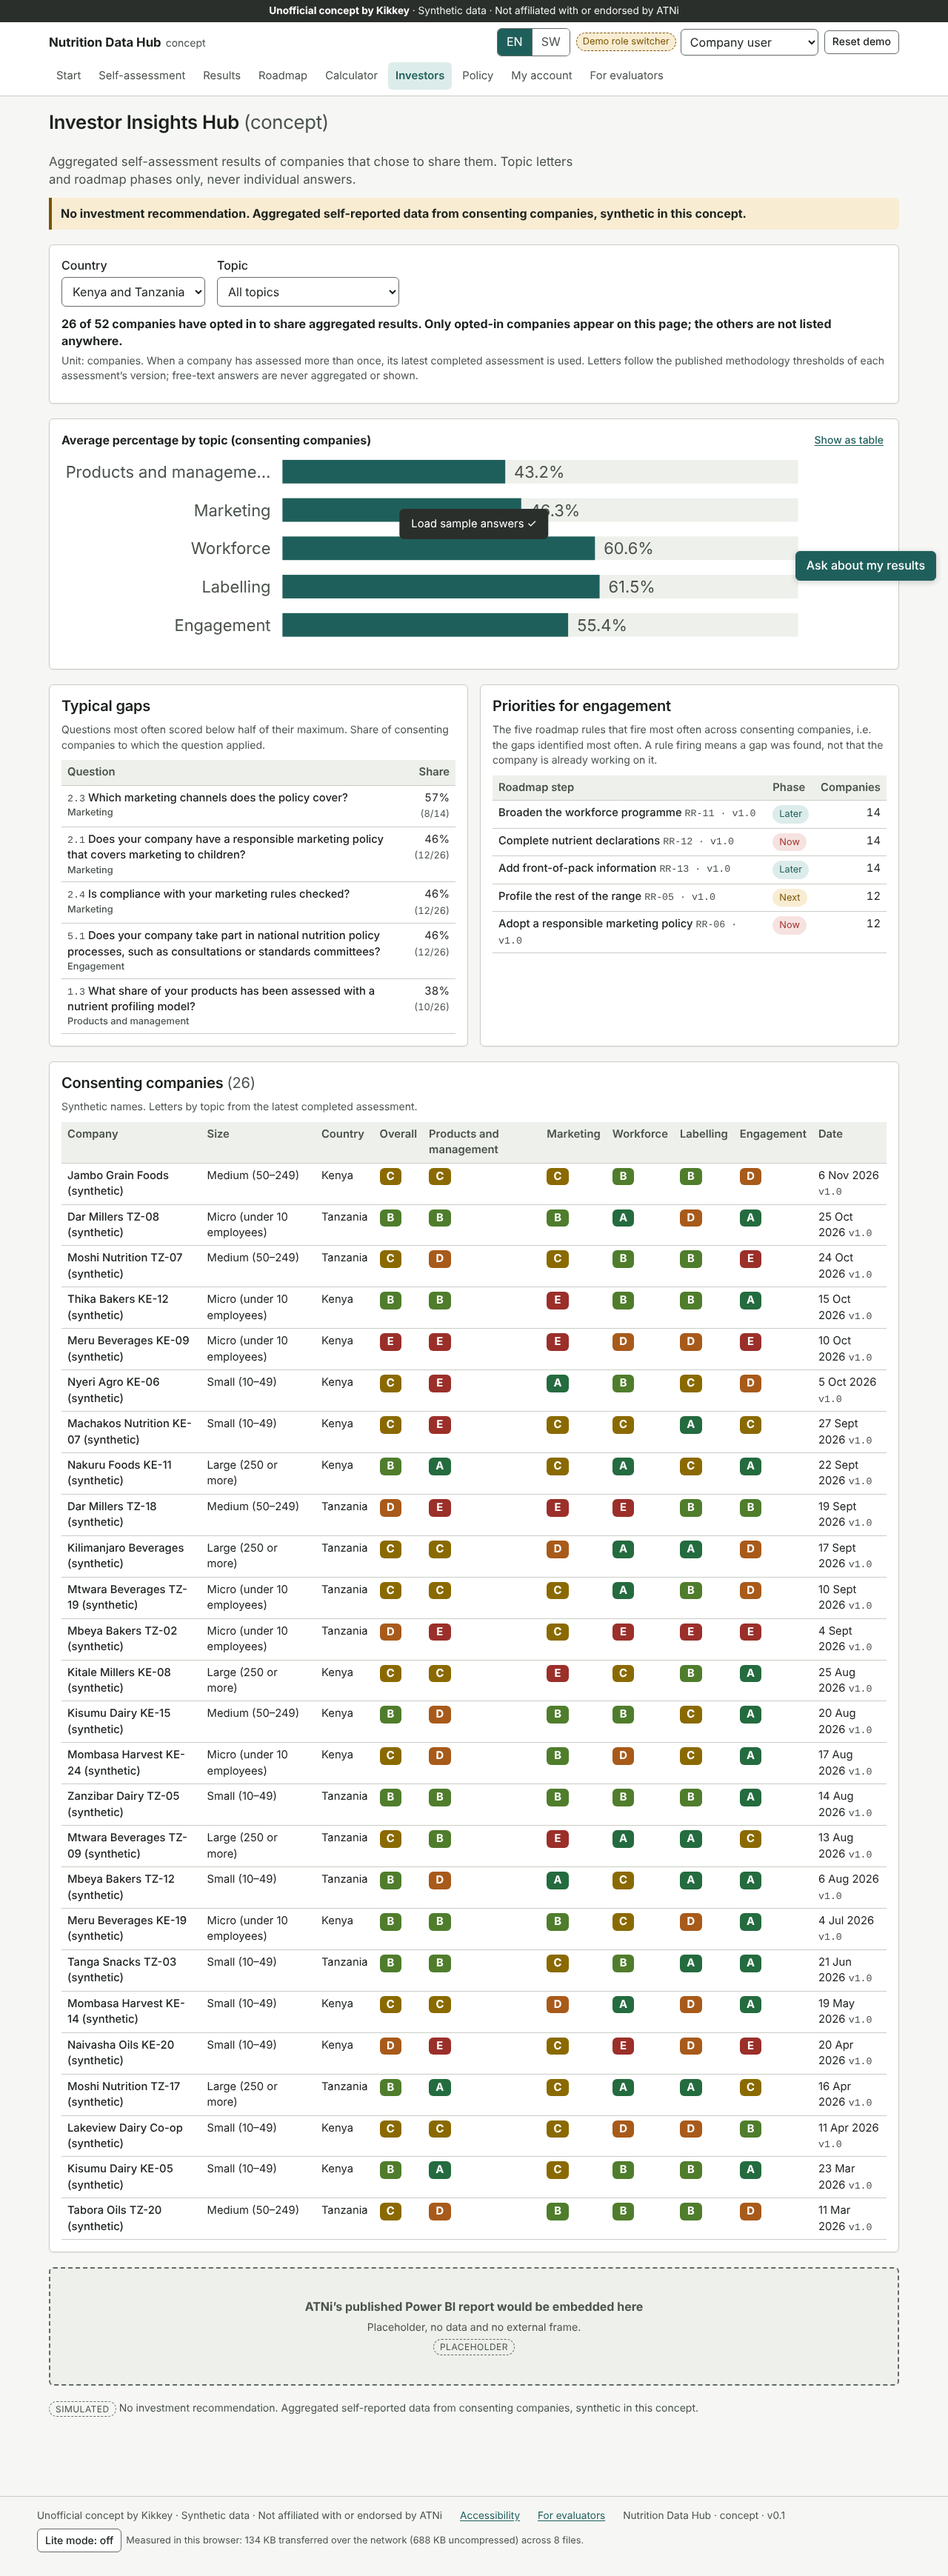
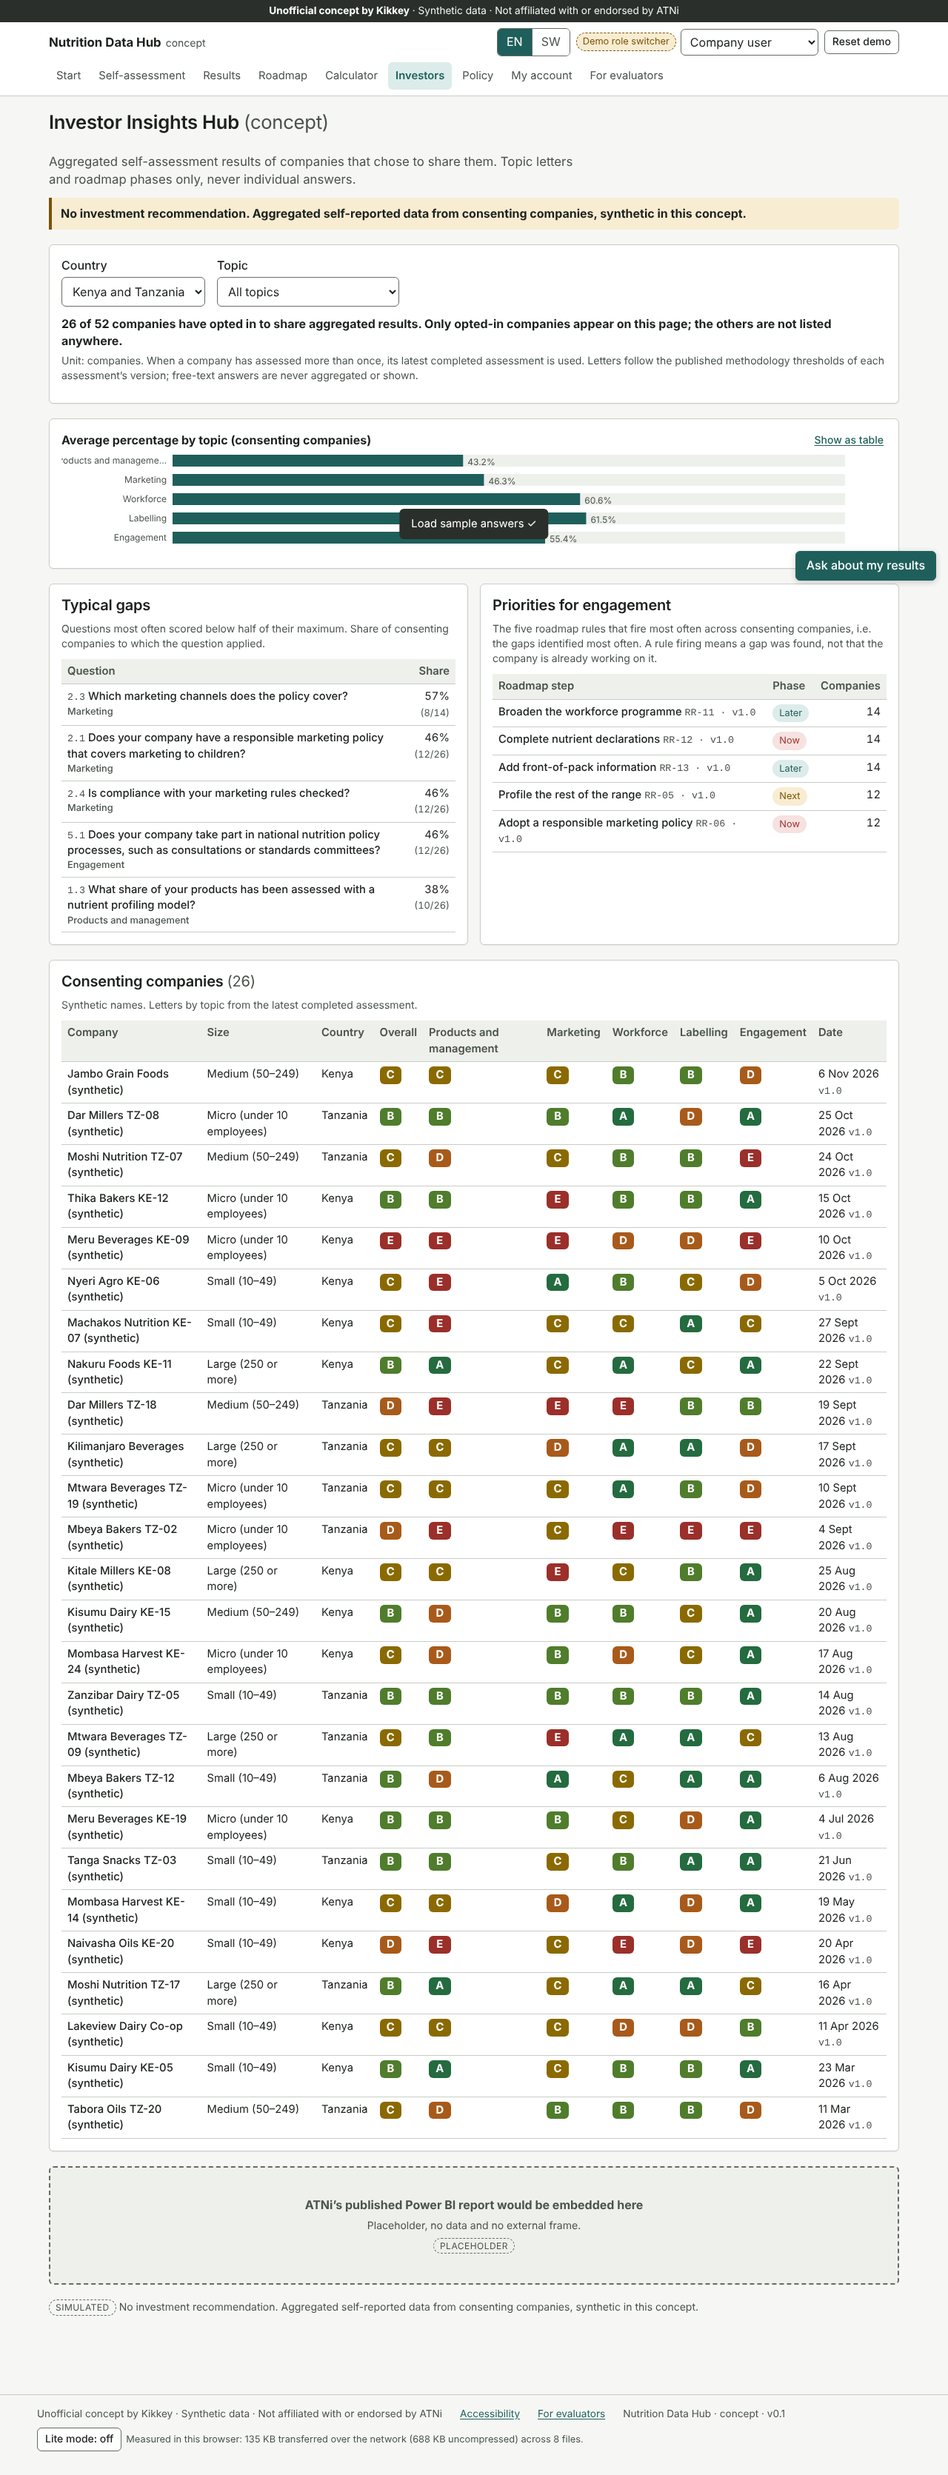
Responsive bar charts drawn in real pixels; country-scoped impact and publish base; country-suffixed draft ids; wording and caption fixes
Claude-Session: https://claude.ai/code/session_01NYA1gefhy3ojjTjKxGLX9t

diff --git a/src/components/BarChart.tsx b/src/components/BarChart.tsx
@@ -1,4 +1,4 @@
-import { useId, useState } from 'react';
+import { useEffect, useId, useRef, useState } from 'react';
 import { useT } from '../i18n/index.tsx';
 import { useStore } from '../store/index.tsx';
 
@@ -19,10 +19,28 @@ export function BarChart({ title, bars, unit = '%', max = 100, caption }: { titl
   const { state } = useStore();
   const [table, setTable] = useState(false);
   const id = useId();
-  const rowH = 26;
-  const labelW = 150;
-  const w = 560;
+  // the SVG is drawn in CSS pixels of the measured container, so text never scales down on phones
+  const wrapRef = useRef<HTMLDivElement>(null);
+  const [measured, setMeasured] = useState(560);
+  useEffect(() => {
+    const el = wrapRef.current;
+    if (!el) return;
+    const apply = () => setMeasured(Math.max(240, Math.round(el.getBoundingClientRect().width || 560)));
+    apply();
+    if (typeof ResizeObserver === 'undefined') return;
+    const ro = new ResizeObserver(apply);
+    ro.observe(el);
+    return () => ro.disconnect();
+  }, []);
+  const narrow = measured < 520;
+  const w = measured;
+  const rowH = narrow ? 44 : 26;
+  const labelW = narrow ? 0 : 150;
+  const valueW = 56;
+  const barY = narrow ? 24 : 3;
+  const barH = narrow ? 12 : rowH - 10;
   const h = bars.length * rowH + 8;
+  const maxLabel = narrow ? 48 : 22;
   const showTable = table || state.settings.lite;
   return (
     <figure style={{ margin: 0 }}>
@@ -34,22 +52,26 @@ export function BarChart({ title, bars, unit = '%', max = 100, caption }: { titl
           </button>
         )}
       </figcaption>
-      {!showTable && (
-        <svg className="bar-chart" viewBox={`0 0 ${w} ${h}`} width="100%" role="img" aria-label={`${title}. ${bars.map((b) => `${b.label}: ${b.value}${unit}`).join('. ')}`}>
-          {bars.map((b, i) => {
-            const bw = Math.max(0, Math.min(1, b.value / (b.max ?? max))) * (w - labelW - 60);
-            const y = i * rowH + 4;
-            return (
-              <g key={b.label}>
-                <text x={labelW - 8} y={y + 15} textAnchor="end">{b.label.length > 22 ? b.label.slice(0, 21) + '…' : b.label}</text>
-                <rect x={labelW} y={y + 3} width={w - labelW - 60} height={rowH - 10} fill="var(--surface-2)" />
-                <rect x={labelW} y={y + 3} width={bw} height={rowH - 10} fill="var(--accent)" />
-                <text x={labelW + bw + 6} y={y + 15}>{b.value}{unit}</text>
-              </g>
-            );
-          })}
-        </svg>
-      )}
+      <div ref={wrapRef} hidden={showTable}>
+        {!showTable && (
+          <svg className="bar-chart" viewBox={`0 0 ${w} ${h}`} width={w} height={h} style={{ maxWidth: '100%', height: 'auto' }} role="img" aria-label={`${title}. ${bars.map((b) => `${b.label}: ${b.value}${unit}`).join('. ')}`}>
+            {bars.map((b, i) => {
+              const track = Math.max(40, w - labelW - valueW);
+              const bw = Math.max(0, Math.min(1, b.value / (b.max ?? max))) * track;
+              const y = i * rowH + 4;
+              const label = b.label.length > maxLabel ? b.label.slice(0, maxLabel - 1) + '…' : b.label;
+              return (
+                <g key={b.label}>
+                  {narrow ? <text x={0} y={y + 14}>{label}</text> : <text x={labelW - 8} y={y + 15} textAnchor="end">{label}</text>}
+                  <rect x={labelW} y={y + barY} width={track} height={barH} fill="var(--surface-2)" />
+                  <rect x={labelW} y={y + barY} width={bw} height={barH} fill="var(--accent)" />
+                  <text x={labelW + bw + 6} y={y + barY + barH - 2}>{b.value}{unit}</text>
+                </g>
+              );
+            })}
+          </svg>
+        )}
+      </div>
       <div id={id} hidden={!showTable} className="table-wrap">
         <table>
           {caption && <caption>{caption}</caption>}

diff --git a/src/pages/admin/EditorPanels.tsx b/src/pages/admin/EditorPanels.tsx
@@ -135,7 +135,9 @@ function ChangeRow({ c }: { c: Change }) {
 /* ---------- Impact preview ---------- */
 
 export function impactFor(assessments: Assessment[], base: MethodologyVersion, version: MethodologyVersion): ImpactReport {
-  return computeImpact(assessments.filter((a) => a.completed_at && a.version_id === base.id), base, version);
+  // a country-specific version only ever applies to that country's assessments
+  const scoped = version.country === '*' ? assessments : assessments.filter((a) => a.country === version.country);
+  return computeImpact(scoped.filter((a) => a.completed_at && a.version_id === base.id), base, version);
 }
 
 export function ImpactSummary({ impact, base }: { impact: ImpactReport; base: MethodologyVersion }) {
@@ -157,7 +159,7 @@ export function ImpactSection({ version, base, assessments, loading }: { version
   return (
     <section className="card" aria-labelledby="impact-h">
       <h2 id="impact-h" style={{ marginTop: 0 }}>Impact on past assessments</h2>
-      <p className="small muted">Preview only: past results are never rewritten. Re-scores the stored answers of every completed assessment on {base?.id ?? 'the base version'} with this version.</p>
+      <p className="small muted">Preview only: past results are never rewritten. Re-scores the stored answers of every completed assessment on {base?.id ?? 'the base version'}{version.country !== '*' ? ` from ${version.country}` : ''} with this version.</p>
       <button type="button" className="btn" onClick={run} disabled={!base || loading}>{loading ? 'Loading assessments…' : 'Preview impact on past assessments'}</button>
       {impact && base && (
         <div style={{ marginTop: 12 }}>

diff --git a/src/pages/admin/Editor.tsx b/src/pages/admin/Editor.tsx
@@ -74,7 +74,9 @@ export function EditorPage({ id }: { id: string }) {
   const others = state.versions.filter((v) => v.id !== version.id);
   const defaultBaseId = compareParam ?? version.based_on ?? state.versions.find((v) => v.status === 'published' && v.id !== version.id && v.country === version.country)?.id ?? others[0]?.id ?? null;
   const base = state.versions.find((v) => v.id === (compareId ?? defaultBaseId)) ?? null;
-  const publishBase = state.versions.find((v) => v.status === 'published' && v.country === version.country && v.id !== version.id) ?? (version.based_on ? state.versions.find((v) => v.id === version.based_on) ?? null : null);
+  // what publishing replaces: the published version for the SAME scope; a first country copy replaces nothing (impact is still previewed against the version it was copied from)
+  const replaces = state.versions.find((v) => v.status === 'published' && v.country === version.country && v.id !== version.id) ?? null;
+  const publishBase = replaces ?? (version.based_on ? state.versions.find((v) => v.id === version.based_on) ?? null : null);
   const blocking = report.issues.filter((i) => i.severity === 'error');
   const mayPublish = can.publish(role) && version.status === 'draft';
   const publishable = mayPublish && report.publishable;

diff --git a/src/styles.css b/src/styles.css
@@ -204,7 +204,7 @@ dialog::backdrop { background: rgba(20, 25, 22, 0.45); }
 .phase-now { border-top-color: var(--danger); }
 .phase-next { border-top-color: var(--warn); }
 .phase-later { border-top-color: var(--accent); }
-.bar-chart text { font-size: 11px; fill: var(--text-2); }
+.bar-chart text { font-size: 12px; fill: var(--text-2); }
 .tour-highlight { outline: 4px solid var(--focus); outline-offset: 4px; border-radius: 4px; }
 .tour-box { position: fixed; z-index: 400; background: var(--surface); border: 1px solid var(--border-strong); border-radius: var(--radius); padding: 14px 16px; width: min(380px, calc(100vw - 32px)); box-shadow: 0 6px 24px rgba(0, 0, 0, 0.25); }
 .role-badge { font-size: 0.8rem; padding: 2px 8px; border-radius: 999px; background: var(--warn-soft); color: var(--warn); border: 1px dashed var(--warn); }

diff --git a/src/pages/admin/shared.tsx b/src/pages/admin/shared.tsx
@@ -212,7 +212,8 @@ export function useCreateDraft(): (srcId: string) => void {
   return (srcId: string) => {
     const src = state.versions.find((v) => v.id === srcId);
     if (!src) return;
-    const id = nextVersionId(state.versions);
+    const suffix = src.country === '*' ? '' : `-${src.country}`;
+    const id = nextVersionId(state.versions.filter((v) => (src.country === '*' ? v.country === '*' : v.country === src.country)), suffix);
     const draft = cloneAsDraft(src, id, now(), `Draft created from ${src.id}.`);
     update((s) => ({ ...s, versions: [...s.versions, draft] }));
     log('create-draft', id, `Draft created from ${src.id}.`);

diff --git a/src/pages/Policy.tsx b/src/pages/Policy.tsx
@@ -189,6 +189,7 @@ export function PolicyPage() {
             )}
             unit="%"
             max={100}
+            caption={v.indicator}
           />
         </section>
       </div>
